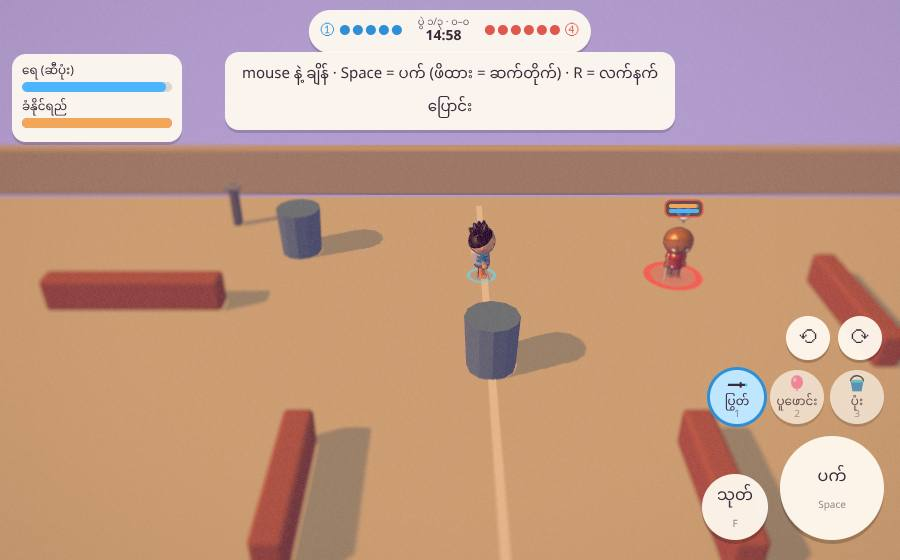
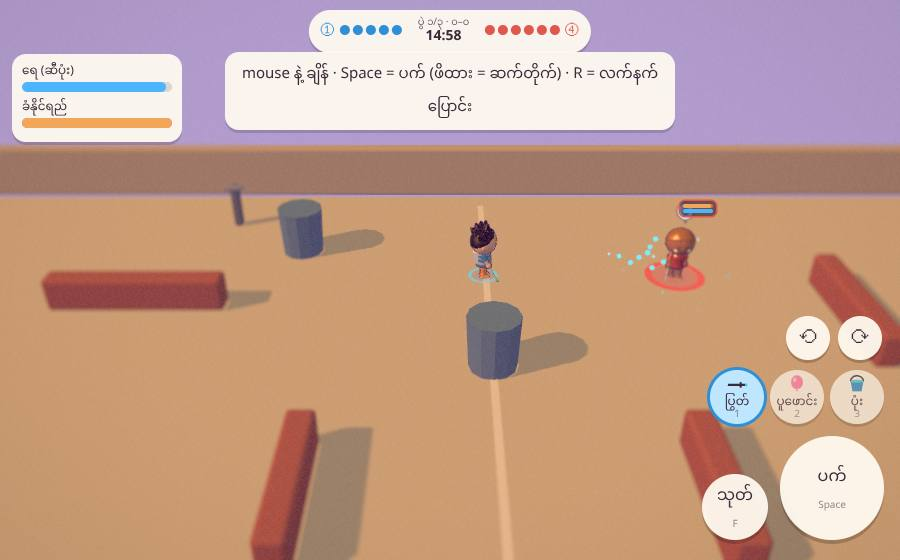
T9: results — speeds, turn, skate, regress (0 diffs), gait 1.6
Claude-Session: https://claude.ai/code/session_017xuZq8H4cNKSMdBo5y4KvM

diff --git a/docs/plans/T9.md b/docs/plans/T9.md
@@ -35,3 +35,24 @@ The spec says gait "~1.45"; at size .72 that gives walk 1.44 / run 3.45, short o
 1. gait **1.6** (hits the targets) vs the spec's ~1.45?
 2. Keyboard without Shift = **jog** (the new default), walk only via a light stick push / talking / carrying — OK?
 3. The hop-skip on the player too, or NPC kids only (it could look like a stumble when you steer)? → suggest both, rarer for the player (every ~6 s, never mid-turn)
+
+## Results (code, 2026-11-07)
+**What landed** — `chibi.js`: `KID_GAIT 1.6` / `KID { gait, stride, lean, hop }` (tunable), a `jog` loop (f 2.0 · A .63), kids' walk / jog / run cadence and speed × the kid gait (one-shots and adults untouched), a forward lean × speed, the pose-only hop-skip on the run (kids; gap 3–5 s NPC, ~6 s player, never mid-turn). `world.js` player move: the speed *scalar* eases (full in .1 s, stop in .06 s, `collide()` still one step a frame), turn ×25, stick bands walk / **jog (default, keyboard too)** / run (Shift / far push), walk while talking or carrying; `?tune` folder 「လှုပ်ရှား」. `camera.js`: `lookJog 1.6` (CAMERA.md §3); `lookRun` stays 2 — the runner never leaves the frame (NDC x −.39…−.02 on a long run).
+
+**Gait: 1.6** (as planned). `docs/speed/check.cjs` also measured the alternative from the review (gait 1.45 + stride ×1.1): the same speeds (walk 1.58 · jog 2.61 · run 3.80). From stills I can't judge "frantic" — both are in `?tune` (`kid.gait`, `kid.stride`) for the creator's eye.
+
+### Checks (headless Chromium, swiftshader, `?dt=.02`)
+| | main | T9 (gait 1.6) |
+|---|---|---|
+| walk | 1.14 m/s | **1.59** |
+| jog | — | **2.62** |
+| run | 2.74 m/s | **3.81** (`anim.speed`, probed directly) |
+| to full speed / to a stop | instant | .10 s / .06 s |
+| turn 90° (to 2°) | .28–.30 s | **.06 s** |
+
+- The check's **run trial at gait 1.6 reads 2.32** twice: that trial runs into a wall (`toStop 0` = a dead stop by `collide()`), so it's the test path, not the speed — a direct probe of `anim.speed` gives 3.81, and the 1.45/1.1 trial on the same path runs at 3.80. Left in the log, noted here.
+- **Foot skate**: jog median .002–.005 m, run ~0 (one .08–.3 m outlier per run = the collision above) ✅. **Walk median ~.17 m on main too** (.178 main · .165 branch) — the walk loop's stance detection / its own slide predates T9; not made worse.
+- **Hop-skip**: not caught in the measured windows (they're shorter than the 3–6 s gap); pose-only by design, so speed / heading are unaffected.
+- **regress.cjs** (main :8797 vs branch :8796): **452 tics compared, worst diff 0, differing 0** · kids' walk / run 14/14 differ as intended · 7 branch-only jog samples · errors 0 / 0.
+- Frame sequence: `docs/speed/seq-1…9.jpg` (stand → jog → run → turn → stop), stride close-ups `docs/speed/stride-*.jpg`.
+- console errors 0.
